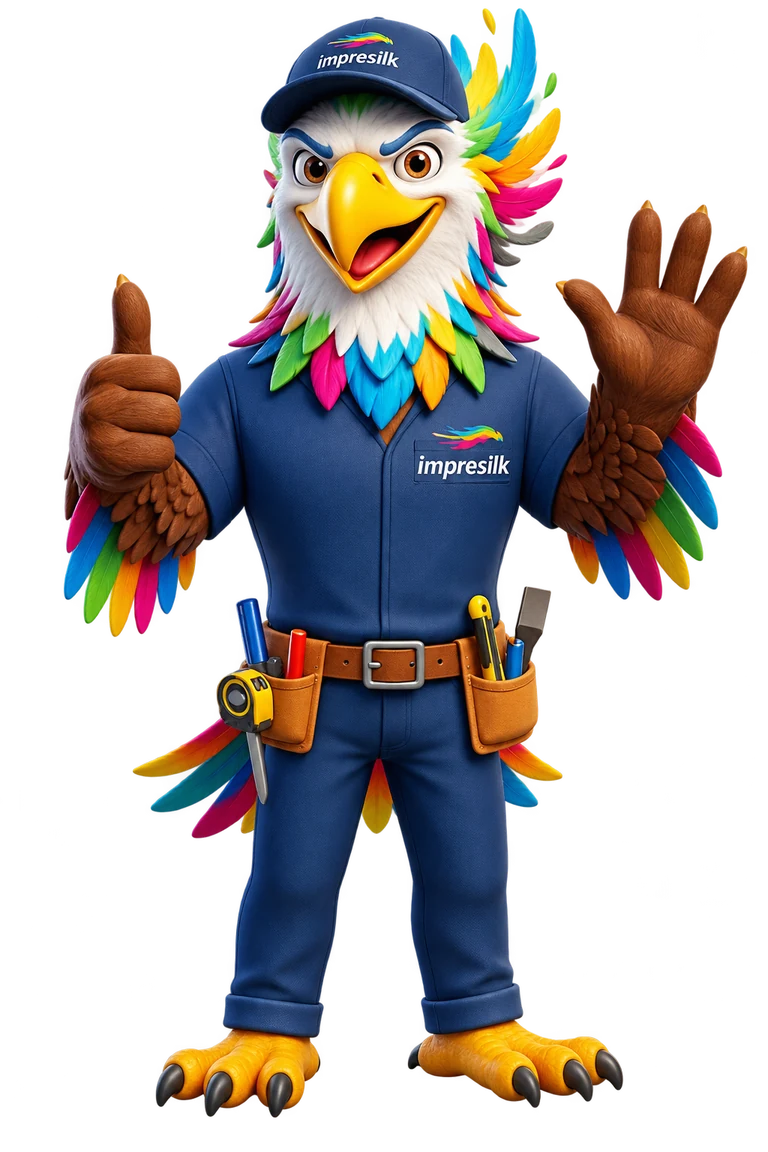
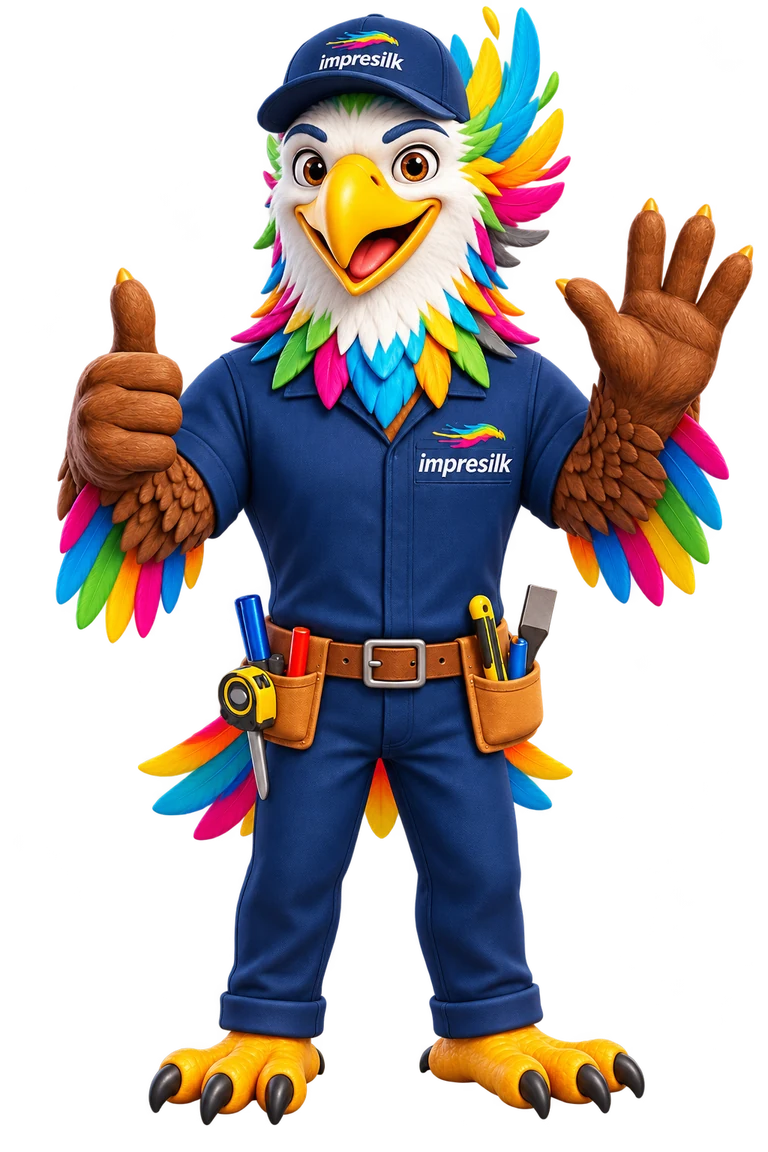
Refina Silk e centraliza seu rosto no menu
Agente: codex

diff --git a/src/components/silk.css b/src/components/silk.css
@@ -1,14 +1,13 @@
 .silk{display:block;flex-shrink:0;pointer-events:none;user-select:none}
 .silk-body{aspect-ratio:2/3}
 .silk-body img{display:block;width:100%;height:100%;object-fit:contain}
-.silk-portrait{position:relative;width:48px;height:48px;overflow:hidden;border-radius:50%;background:var(--bg)}
-.silk-portrait img{position:absolute;display:block;width:190%;max-width:none;height:auto;left:-45%;top:-3%}
-/* A logo oficial permanece inteira; o mascote não herda seu limite de altura. */
-.review-brand.silk-brand{display:flex;align-items:center;gap:10px;min-height:64px}
-.silk-brand-logo{flex:1;min-width:0}
+.silk-portrait{width:48px;height:48px}
+.silk-portrait img{display:block;width:100%;height:100%;object-fit:contain}
+/* O rosto ocupa o espaço da marca no menu, inteiro e centralizado. */
+.review-brand.silk-brand{display:flex;align-items:center;justify-content:center;min-height:88px;padding:0 10px 10px}
 .review-brand .silk{margin:0;font:inherit;letter-spacing:normal}
-.review-brand .silk-brand-logo img{max-width:100%;max-height:54px}
-.review-brand .silk-portrait img{width:190%;height:auto;max-width:none;max-height:none}
+.review-brand .silk-portrait{width:88px;height:88px}
+.review-brand .silk-portrait img{width:100%;height:100%;max-width:none;max-height:none;object-fit:contain}
 .silk-home{display:flex;align-items:center;justify-content:center;gap:24px;border-bottom:1px solid var(--hairline);padding-bottom:16px;text-align:left}
 .silk-home .silk-body{width:84px}
 .silk-home-copy{min-width:0;max-width:600px}

diff --git a/src/components/CentralShell.jsx b/src/components/CentralShell.jsx
@@ -5,8 +5,6 @@ import {podeAbrir,ehDirecao} from '../lib/sessao.js';
 import {SISTEMAS} from '../lib/sistemas.js';
 import {destinoPatrimonio} from '../lib/calc/navegacao-patrimonio.js';
 import {MODULOS} from '../lib/modulos.js';
-import logo from '../assets/brand/logo-color.png';
-import logoWhite from '../assets/brand/logo-white.png';
 import Silk from './Silk.jsx';
 import './central-shell.css';
 
@@ -58,7 +56,7 @@ export default function CentralShell({children,sessao,aoSair,controles}) {
     {menu&&<button aria-label="Fechar menu" className="review-scrim sem-impressao" onClick={()=>setMenu(false)}/>}
     <aside ref={lateralRef} id="menu-painel" className={`review-sidebar sem-impressao ${menu?'open':''}`}>
       {menu && <button className="btn-ghost" onClick={()=>setMenu(false)} aria-label="Fechar navegação"><X size={22}/></button>}
-      <Link to="/" className="review-brand silk-brand" aria-label="Impresilk · Início"><div className="silk-brand-logo"><img src={logo} alt="Impresilk" className="dark:hidden"/><img src={logoWhite} alt="Impresilk" className="hidden dark:block"/></div><Silk portrait/></Link>
+      <Link to="/" className="review-brand silk-brand" aria-label="Impresilk · Início"><Silk portrait/></Link>
       <details className="review-gestao" open>
         <summary>PAINEL DE GESTÃO <ChevronRight size={15} aria-hidden="true"/></summary>
       <nav aria-label="Navegação principal">

diff --git a/src/components/Silk.jsx b/src/components/Silk.jsx
@@ -6,8 +6,8 @@ import './silk.css';
 export default function Silk({portrait = false, decorative = false, className = ''}) {
   return <span className={`silk ${portrait ? 'silk-portrait' : 'silk-body'} ${className}`} aria-hidden={decorative || undefined}>
     <img src={portrait ? silkCompacto : silk}
-      alt={decorative ? '' : 'Silk, mascote da Impresilk, acenando'}
-      width={portrait ? 256 : 768} height={portrait ? 384 : 1152}
+      alt={decorative ? '' : 'Silk, mascote da Impresilk'}
+      width={portrait ? 256 : 768} height={portrait ? 256 : 1152}
       decoding="async" draggable="false"/>
   </span>;
 }

diff --git a/docs/silk-mascote.md b/docs/silk-mascote.md
@@ -29,3 +29,13 @@ Léo confirmou “pode publicar” em 13/10/2026 após a prévia. Nova revisão 
 Verificação final antes do envio: 1.315 testes da auditoria e 643 de cálculo/acesso aprovados, sem falhas nem ignorados; 15 verificadores oficiais, build e lint sem erros (um aviso anterior em Agenda). A lista de permissões externa foi obtida da equipe-auth oficial atual. Nenhuma mudança de dados nesta publicação.
 
 Publicado e conferido em 13/10/2026: código `396d2a1`, Pages `38452103563`, build e deploy com sucesso. Comparação do HTML e 116 assets oficiais: 117/117 idênticos ao build validado. Entrada oficial em desktop e 390 px conferida no navegador, imagens carregadas com proporção correta, sem transbordamento ou erros JavaScript. Home, Comercial, navegação e tema escuro conferidos em prévia; não havia sessão autenticada na entrada oficial. Publicação visual concluída, sem alteração de dados, servidor, permissões ou credenciais.
+
+## Refinamento e rosto solto · 14/10/2026
+
+Léo aprovou a nova arte de corpo inteiro e sua compatibilidade com a logomarca, e autorizou publicar o rosto sem a moldura circular. Confirmou a passagem temporária da vez para esse ajuste, preservando o trabalho do Patrimônio do Claude.
+
+Corpo inteiro: expressão mais acolhedora, sobrancelhas suaves, textura e iluminação refinadas; pose, uniforme marinho e plumagem nas cores da marca preservados. Retrato: cabeça transparente própria, com o boné e as penas inteiros; sem ombros, círculo, fundo, ampliação ou corte artificial. Dimensões reservadas de 256×256 no retrato e 768×1152 no corpo. Pedido complementar de Léo: o topo do menu apresenta apenas o rosto, centralizado e maior (88 px), ocupando o espaço da marca e mantendo o atalho do Início. Entrada e Home conservam o corpo inteiro. Arquivos da logo oficial permanecem originais, separados dos bordados ilustrados do mascote.
+
+Imagens preparadas com image_gen a partir da arte aprovada. PNGs mestres preservados no workspace do dono; o site utiliza apenas WebPs leves. Sem mudança de servidor, banco, permissões, dados ou funcionalidades. Publicação autorizada em preparação; confirmar a versão oficial antes de declarar concluída.
+
+Verificação local: 684 testes aprovados, zero falhas/ignorados; 41 regressões de apresentação repetidas após o pedido complementar do menu. Build com BASE_PATH oficial e lint sem erros (um aviso anterior em Agenda). Quinze verificadores aprovados; classes reconferidas após o novo build. Revisão independente aprovada. Prévia no navegador confirmou corpo na entrada e Home, rosto no Comercial e menu, temas claro/escuro e gaveta em 390 px, sem transbordamento nem erro JavaScript. O menu contém uma imagem de 88×88 px, com centro alinhado ao centro do espaço da marca; atalho e navegação preservados.

diff --git a/VEZ.md b/VEZ.md
@@ -1,5 +1,15 @@
 # Vez do Painel Impresilk
 
+## Trabalho atual · Silk refinado e rosto solto
+
+Agente: codex. Léo aprovou o refinamento visual em 14/10/2026 e autorizou “pode subir o rosto pode ser solto sem ser na bolinha ficou muito bom”. Após consultar a vez registrada do Claude, confirmou: “Sim, passar a vez para o Silk”. Passagem temporária para publicar somente este ajuste visual, preservando integralmente o trabalho de Patrimônio registrado abaixo. Ramo `codex/silk-refinado-20261014`, clone isolado fora do iCloud, baseado na main `76540c2`.
+
+Escopo: atualizar o corpo inteiro pela arte refinada aprovada e usar retrato transparente sem círculo, fundo ou recorte artificial nos espaços pequenos. Pedido complementar de Léo em 14/10: no topo do menu, mostrar apenas o rosto, maior e centralizado no espaço da logo. Rosto de 88 px nesse local, com o atalho do Início preservado. Arquivos originais da logo, fluxos, permissões, servidor e registros preservados. Não alterar ou publicar o trabalho de Patrimônio do Claude.
+
+Estado: implementação e verificação da publicação autorizada em andamento. A passagem é temporária para o Silk; após concluir, o trabalho do Claude mantém seu escopo e sua vez anterior, conforme autorizado pelo dono.
+
+Pré-publicação: 684 testes de cálculo, acesso e apresentação aprovados, sem falhas ou ignorados; após o ajuste complementar do menu, as 41 regressões de apresentação foram repetidas e aprovadas. Build oficial e lint aprovados (um aviso anterior em Agenda); 15 verificadores aprovados e classes reconferidas após o novo build. Revisão independente aprovada. Navegador conferiu entrada, Home, Comercial, temas claro/escuro e gaveta de 390 px; rosto do menu único, 88×88 px e centralizado, sem transbordamento ou erro JavaScript. Fonte externa de permissões atualizada da equipe-auth oficial. Sem gravação de dados reais.
+
 ## Trabalho atual · Patrimônio: vínculo pela ficha do bem e acesso do almoxarifado
 
 Agente: claude. Pedido de Léo em 14/10/2026: "raphael do almoxarifado tem que ter acesso a tudo do patrimonio igual esse bens e pendencias e tem que ter como vincular aos setores la de cima tipo carros maquinas ou em estrutura pela ficha favor avaliar". Avaliação só de leitura entregue nesta conversa. Decisões de Léo na mesma conversa: "Sim, pode pegar" (a vez sai do Codex, cujo trabalho do Silk está publicado e conferido), caminho completo, o Raphael pode ver valores em R$ e quem edita o Patrimônio pode desfazer vínculo de carro ou máquina. Ramo `claude/vinculo-ficha-bem-20261014`, clone isolado em /tmp, a partir da main `3c156a5`.
